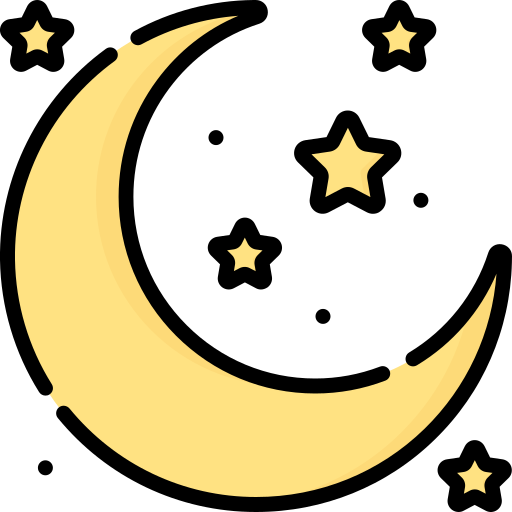
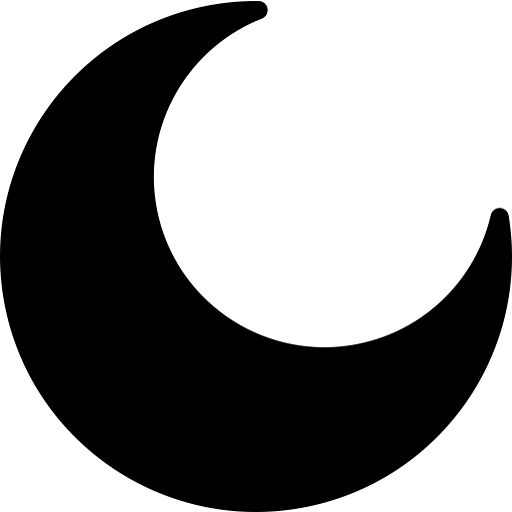
feat: start work on the Pro version

diff --git a/index.html b/index.html
@@ -3,52 +3,131 @@
 <head>
   <meta charset="utf-8">
   <meta name="viewport" content="width=device-width, initial-scale=1.0, maximum-scale=1.0, user-scalable=no">
-  <title>Hangman by Maro</title>
-  <link href="https://fonts.googleapis.com/css2?family=Montserrat:wght@400;700&display=swap" rel="stylesheet">
+  <title>HangmanPro by Maro</title>
+
   <link rel="stylesheet" href="css/style.css">
+  <link rel="preconnect" href="https://fonts.googleapis.com">
+  <link rel="preconnect" href="https://fonts.gstatic.com" crossorigin>
+  <link href="https://fonts.googleapis.com/css2?family=Nunito:ital,wght@0,200..1000;1,200..1000&family=Playpen+Sans:wght@100..800&display=swap" rel="stylesheet">
+  <link rel="preconnect" href="https://fonts.googleapis.com">
+  <link rel="preconnect" href="https://fonts.gstatic.com" crossorigin>
+  <link href="https://fonts.googleapis.com/css2?family=Nunito:ital,wght@0,200..1000;1,200..1000&family=Playpen+Sans:wght@100..800&family=Raleway:ital,wght@0,100..900;1,100..900&display=swap" rel="stylesheet">
   <meta name="description" content="Gra wisielec z różnymi poziomami trudności">
 </head>
 <body>
 <!-- Mode toggle -->
 <div id="mode-toggle">
-  <img src="img/moon_icon.png" alt="Toggle mode" id="mode-icon" width="30" height="30">
-</div>
-<!-- Start menu -->
-<div class="main">
-  <h1>Hangman by <span class="name">Maro</span></h1>
-  <h2>Wybierz poziom trudności:</h2>
-  <div class="difficulty-buttons">
-    <button class="btn selected" id="easy">Łatwy</button>
-    <button class="btn" id="medium">Średni</button>
-    <button class="btn" id="hard">Trudny</button>
-  </div>
-  <h2>Wybierz tryb gry:</h2>
-  <div class="game-modes">
-    <button class="btn mode selected" id="classic">Klasyczny</button>
-    <button class="btn mode" id="noMistake">Bez błędów</button>
-    <button class="btn mode" id="noHints">Bez podpowiedzi</button>
-    <button class="btn mode" id="express">Ekspres!</button>
-  </div>
-  <button class="start-button">Rozpocznij grę</button>
+  <img src="img/moon_icon.png" alt="Toggle mode" id="mode-icon">
 </div>
 
-<!-- UI -->
-<div id="game-container" class="hidden">
-  <div class="game-wrapper">
-    <!-- Left Column -->
-    <div class="left-column">
-      <div id="word-container"></div>
-      <div id="keyboard"></div>
-      <div id="wrong-letters">
-        <p>Błędne litery:</p>
-        <span id="wrong-letters-list"></span>
+<!-- Start menu -->
+<div class="main">
+  <div class="logo-container">
+  <h1 class="wave-text"><span>H</span><span>A</span><span>N</span><span>G</span><span>M</span><span>A</span><span>N</span>
+                        <span>P</span><span>R</span><span>O</span></h1>
+    <div class="author">by <span class="name">Maro</span></div>
+  <p class="app-subtitle">Odgadnij słowo i zostań mistrzem!</p>
+  </div>
+  <div class="menu-card">
+    <div class="tab-container">
+      <div class="tab-header">
+        <button class="tab-button active" data-tab="difficulty">Poziom trudności</button>
+        <button class="tab-button" data-tab="mode">Tryb gry</button>
+        <button class="tab-button" data-tab="category">Kategoria</button>
+      </div>
+      <div class="tab-content active" id="difficulty-tab">
+        <h2 class="tab-title">Wybierz poziom trudności:</h2>
+        <div class="buttons-grid difficulty-buttons">
+          <button class="btn selected" id="easy">
+            <span class="btn-icon">🔰</span>
+            <span class="btn-text">Łatwy</span>
+          </button>
+          <button class="btn" id="medium">
+            <span class="btn-icon">⚡</span>
+            <span class="btn-text">Średni</span>
+          </button>
+          <button class="btn" id="hard">
+            <span class="btn-icon">🔥</span>
+            <span class="btn-text">Trudny</span>
+          </button>
+          <button class="btn" id="extreme">
+            <span class="btn-icon">☠</span>
+            <span class="btn-text">Ekstremalny</span>
+          </button>
+        </div>
+      </div>
+
+      <div class="tab-content" id="mode-tab">
+        <h2 class="tab-title">Wybierz tryb gry:</h2>
+        <div class="buttons-grid game-modes">
+          <button class="btn mode selected" id="classic">
+            <span class="btn-icon">🎮</span>
+            <span class="btn-text">Klasyczny</span>
+          </button>
+          <button class="btn mode" id="noMistake">
+            <span class="btn-icon">⚠</span>
+            <span class="btn-text">Bez błędów</span>
+          </button>
+          <button class="btn mode" id="noHints">
+            <span class="btn-icon">🔍</span>
+            <span class="btn-text">Bez podpowiedzi</span>
+          </button>
+          <button class="btn mode" id="express">
+            <span class="btn-icon">⏱</span>
+            <span class="btn-text">Ekspres!</span>
+          </button>
+        </div>
+      </div>
+
+      <div class="tab-content" id="category-tab">
+        <h2 class="tab-title">Wybierz kategorię:</h2>
+        <div class="buttons-grid categories">
+          <button class="btn category selected" id="all">
+            <span class="btn-icon">🔠</span>
+            <span class="btn-text">Wszystkie</span>
+          </button>
+          <button class="btn category" id="animals">
+            <span class="btn-icon">🐾</span>
+            <span class="btn-text">Zwierzęta</span>
+          </button>
+          <button class="btn category" id="geography">
+            <span class="btn-icon">🌍</span>
+            <span class="btn-text">Geografia</span>
+          </button>
+          <button class="btn category" id="food">
+            <span class="btn-icon">🍔</span>
+            <span class="btn-text">Jedzenie</span>
+          </button>
+        </div>
       </div>
     </div>
-    <!-- Right Column -->
-    <div class="right-column">
-      <canvas id="hangman-canvas" width="300" height="300"></canvas>
+
+    <div class="menu-summary">
+      <h3>Twoje ustawienia:</h3>
+      <div class="settings-display">
+        <div class="setting-item">
+          <span class="setting-icon">🔰</span>
+          <span class="setting-label">Poziom:</span>
+          <span class="setting-value" id="current-difficulty">Łatwy</span>
+        </div>
+        <div class="setting-item">
+          <span class="setting-icon">🎮</span>
+          <span class="setting-label">Tryb:</span>
+          <span class="setting-value" id="current-mode">Klasyczny</span>
+        </div>
+        <div class="setting-item">
+          <span class="setting-icon">🔠</span>
+          <span class="setting-label">Kategoria:</span>
+          <span class="setting-value" id="current-category">Wszystkie</span>
+        </div>
+      </div>
     </div>
   </div>
+
+  <button class="start-button">
+    <span class="btn-icon">▶</span>
+    Rozpocznij grę
+  </button>
 </div>
 
 <script src="js/app.js"></script>

diff --git a/css/style.css b/css/style.css
@@ -9,11 +9,15 @@ html, body {
 
 
 body {
-  font-family: 'Montserrat', sans-serif;
+  font-family: 'Nunito', sans-serif;
   margin: 0;
   padding: 0;
   box-sizing: border-box;
-  background: linear-gradient(to right, #fbc7d4, #9796f0);
+  background: #005C97;  /* fallback for old browsers */
+  background: -webkit-linear-gradient(to right, #363795, #005C97);  /* Chrome 10-25, Safari 5.1-6 */
+  background: linear-gradient(to right, #363795, #005C97); /* W3C, IE 10+/ Edge, Firefox 16+, Chrome 26+, Opera 12+, Safari 7+ */
+
+
   color: #333;
   display: flex;
   flex-direction: column;
@@ -47,12 +51,6 @@ h1 {
   margin-top: 20px;
   color: #fff;
   text-shadow: 2px 2px 4px rgba(0, 0, 0, 0.5);
-}
-
-.name {
-  color: #92edeb;
-  display: inline;
-  text-align: center;
 }
 
 h2 {
@@ -300,7 +298,7 @@ h2 {
   color: #ff6b6b;
 }
 
-/* Style for the mode toggle button */
+/* Style for the mode toggle button placement */
 #mode-toggle {
   position: absolute;
   top: 20px;
@@ -309,6 +307,24 @@ h2 {
   cursor: pointer;
   /*background: #fff;*/
   padding: 5px;
+}
+
+/* Style for the buttons themselves */
+#mode-toggle #mode-icon {
+  border: 2px solid white;
+  border-radius: 50%;
+  padding: 0.5rem;
+  background: rgba(255, 255, 255, 0.6);
+  width: 24px;
+  height: 24px;
+  transition: all 0.3s ease;
+  box-shadow: 0 2px 6px rgba(0, 0, 0, 0.1);
+}
+
+#mode-toggle #mode-icon:hover {
+  transform: scale(1.05);
+  background: rgba(255, 255, 255, 0.8);
+  box-shadow: 0 4px 10px rgba(0, 0, 0, 0.2);
 }
 
 /* DARK MODE STYLES */
@@ -470,3 +486,142 @@ body.dark-mode #timer-display {
     grid-template-columns: repeat(2, minmax(100px, 1fr));
   }
 }
+
+.logo-container {
+  text-align: center;
+  margin-top: 30px;
+}
+
+/* Wave animation of title */
+
+.wave-text {
+  margin: 0.5rem 0;
+  color: #d3c252;
+  font-weight: 700;
+  text-shadow: 6px 6px 0px rgba(0,0,0,0.2);
+}
+
+
+.wave-text span {
+  display: inline-block;
+  font-size: 4rem;
+  animation: wave 1.5s ease-in-out infinite;
+}
+
+.wave-text span:nth-child(1) { animation-delay: 0s; }
+.wave-text span:nth-child(2) { animation-delay: 0.1s; }
+.wave-text span:nth-child(3) { animation-delay: 0.2s; }
+.wave-text span:nth-child(4) { animation-delay: 0.3s; }
+.wave-text span:nth-child(5) { animation-delay: 0.4s; }
+.wave-text span:nth-child(6) { animation-delay: 0.5s; }
+.wave-text span:nth-child(7) { animation-delay: 0.6s; }
+.wave-text span:nth-child(8) { animation-delay: 0.7s; }
+.wave-text span:nth-child(9) { animation-delay: 0.8s; }
+.wave-text span:nth-child(10) { animation-delay: 0.9s; }
+
+@keyframes wave {
+  0%, 100% {
+    transform: translateY(0);
+  }
+  50% {
+    transform: translateY(-5px);
+  }
+}
+
+.author {
+  font-size: 1.5rem;
+  color: rgba(255, 255, 255, 0.9);
+  margin-top: -20px;
+  margin-bottom: 15px;
+  text-shadow: 2px 2px 4px rgba(0, 0, 0, 0.2);
+  font-style: italic;
+  letter-spacing: 2px;
+}
+
+.name {
+  font-size: 2rem;
+  color: darkturquoise;
+  text-shadow: 2px 2px 4px rgba(0, 0, 0, 0.5);
+}
+
+@media (max-width: 768px) {
+  .author {
+    font-size: 1.2rem;
+    margin-top: -10px;
+  }
+}
+
+.app-subtitle {
+  color: rgba(255, 255, 255, 0.9);
+  font-size: 1.2rem;
+  margin: 3rem 0;
+}
+
+.menu-card {
+  background: rgba(255, 255, 255, 0.15);
+  backdrop-filter: blur(10px);
+  border-radius: 20px;
+  box-shadow: 0 15px 35px rgba(0, 0, 0, 0.2);
+  padding: 25px;
+  margin-bottom: 30px;
+  animation: slideUp 1s ease-in-out forwards;
+  max-width: 800px;
+  width: 100%;
+}
+
+@keyframes slideUp {
+  from {
+    opacity: 0;
+    transform: translateY(40px);
+  }
+  to {
+    opacity: 1;
+    transform: translateY(0);
+  }
+}
+
+.tab-container {
+  position: relative;
+  margin-bottom: 20px;
+}
+
+.tab-header {
+  display: flex;
+  border-bottom: 2px solid rgba(255, 255, 255, 0.2);
+  margin-bottom: 25px;
+}
+
+.tab-button {
+  background: none;
+  border: none;
+  color: rgba(255, 255, 255, 0.7);
+  font-size: 1.1rem;
+  padding: 12px 20px;
+  margin-right: 5px;
+  cursor: pointer;
+  position: relative;
+  transition: all 0.3s;
+  font-weight: 500;
+  outline: none;
+}
+
+.tab-button:hover {
+  color: #fff;
+}
+
+.tab-button.active {
+  color: #fff;
+}
+
+.tab-button.active::after {
+  content: '';
+  position: absolute;
+  bottom: -2px;
+  left: 0;
+  width: 100%;
+  height: 3px;
+  background: linear-gradient(to right, #ff6b6b, #ffd54f);
+  border-radius: 3px 3px 0 0;
+}
+
+/* TODO: Add rest of the styles */
